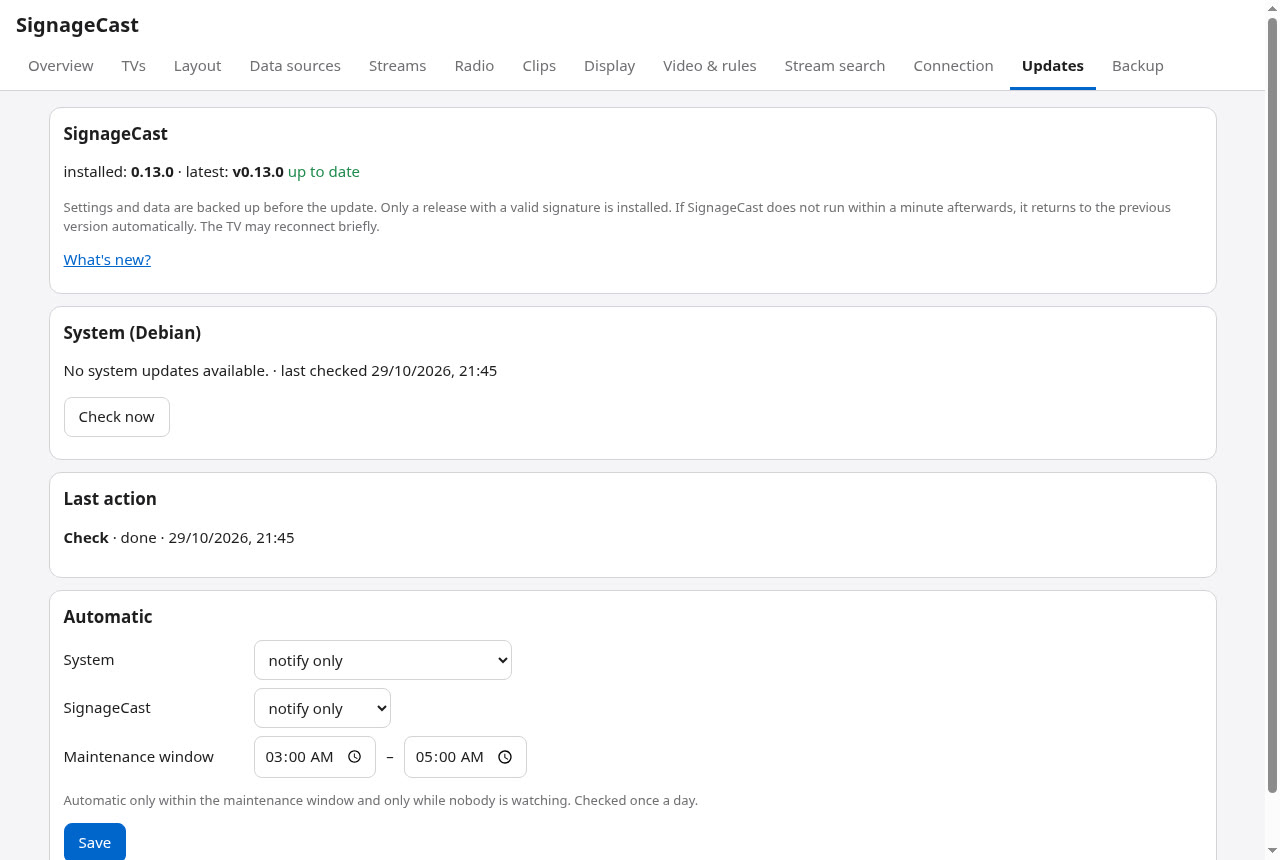
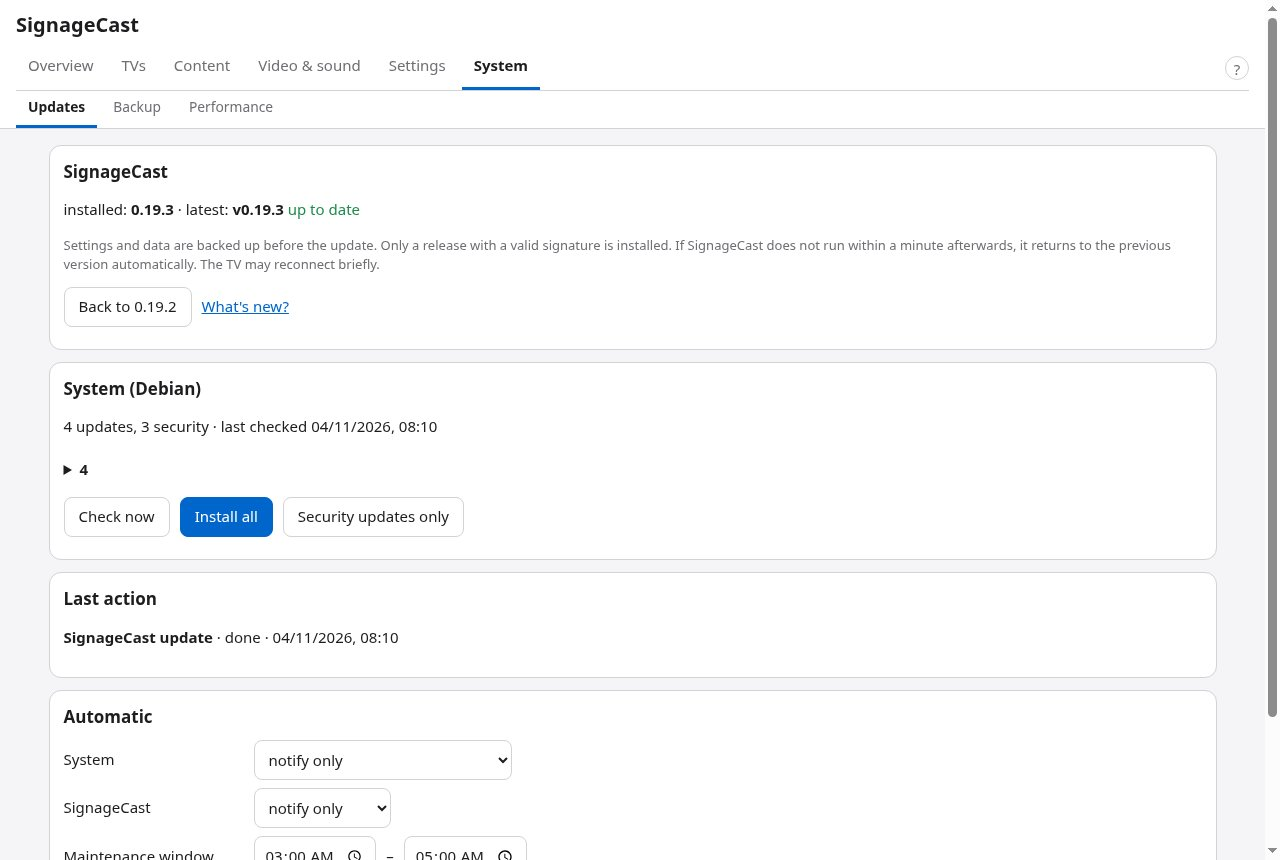
Tour: Bild 13 (Updates) mit 0.19.3 neu aufgenommen
Claude-Session: https://claude.ai/code/session_01LNDhmfSQXqarshduJ2BAH1

diff --git a/docs/TOUR.md b/docs/TOUR.md
@@ -2,8 +2,7 @@
 
 A walk through SignageCast: what the TV shows and how you set it up in the browser. All pictures are from a demo
 installation (location Berlin, public example data, no Home Assistant connected). The admin pictures show versions
-0.17–0.19 with the six areas Overview, TVs, Content, Video & sound, Settings and System; only the updates page is from
-version 0.13.
+0.17–0.19 with the six areas Overview, TVs, Content, Video & sound, Settings and System.
 
 [← back to the README](../README.md)
 
